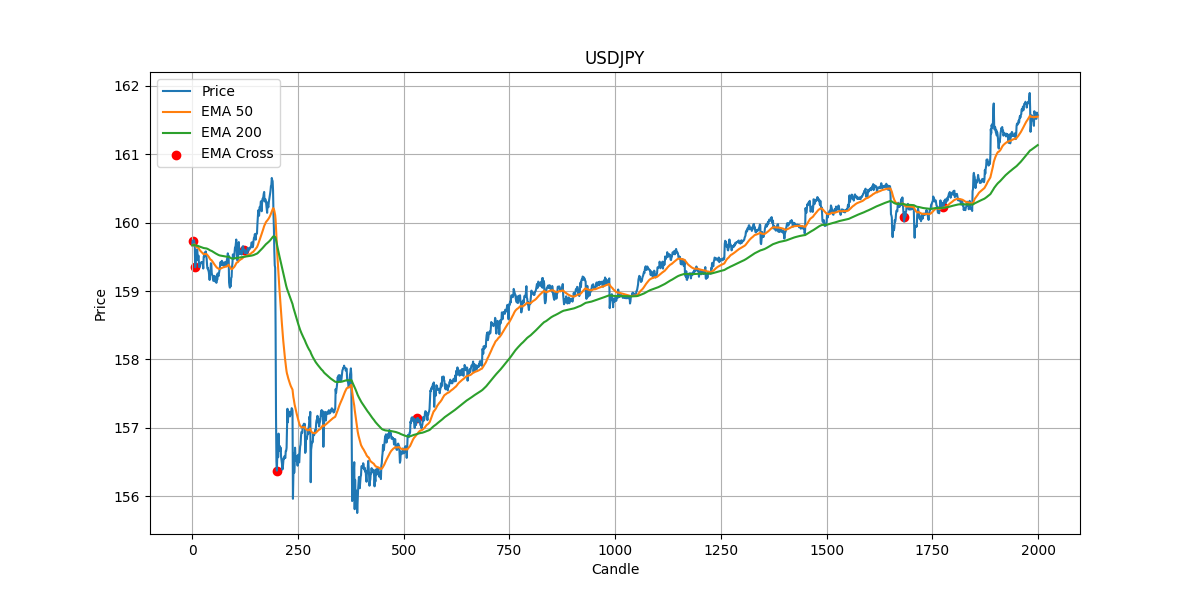
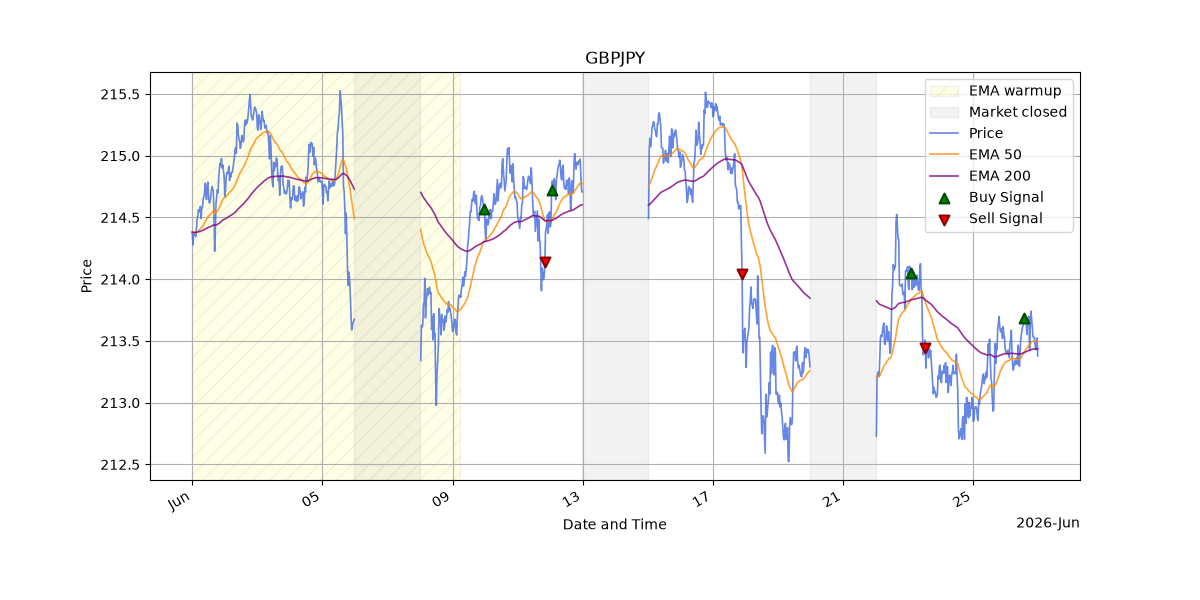
initial backtesting poc available

diff --git a/backtest_lib.py b/backtest_lib.py
@@ -1,0 +1,161 @@
+"""
+Author: Zsigmond Kovacs-Nagy
+Description: ...
+"""
+
+from decimal import Decimal
+
+from nautilus_trader.config import StrategyConfig
+from nautilus_trader.indicators import ExponentialMovingAverage
+from nautilus_trader.model.data import Bar
+from nautilus_trader.model.data import BarType
+from nautilus_trader.model.enums import OrderSide
+from nautilus_trader.model.identifiers import InstrumentId
+from nautilus_trader.trading.strategy import Strategy
+
+
+class EMACrossConfig(StrategyConfig, frozen=True):
+    instrument_id: InstrumentId
+    bar_type: BarType
+    trade_size: Decimal
+    fast_ema_period: int = 50
+    slow_ema_period: int = 200
+
+
+class EMACross(Strategy):
+    def __init__(self, config: EMACrossConfig):
+        super().__init__(config)
+        self.fast_ema = ExponentialMovingAverage(config.fast_ema_period)
+        self.slow_ema = ExponentialMovingAverage(config.slow_ema_period)
+
+    def on_start(self):
+        self.register_indicator_for_bars(self.config.bar_type, self.fast_ema)
+        self.register_indicator_for_bars(self.config.bar_type, self.slow_ema)
+        self.subscribe_bars(self.config.bar_type)
+
+    def on_bar(self, bar: Bar):
+        if not self.indicators_initialized():
+            return
+
+        if self.fast_ema.value >= self.slow_ema.value:
+            if self.portfolio.is_flat(self.config.instrument_id):
+                self.buy()
+            elif self.portfolio.is_net_short(self.config.instrument_id):
+                self.close_all_positions(self.config.instrument_id)
+                self.buy()
+        elif self.fast_ema.value < self.slow_ema.value:
+            if self.portfolio.is_flat(self.config.instrument_id):
+                self.sell()
+            elif self.portfolio.is_net_long(self.config.instrument_id):
+                self.close_all_positions(self.config.instrument_id)
+                self.sell()
+
+    def buy(self):
+        instrument = self.cache.instrument(self.config.instrument_id)
+        order = self.order_factory.market(
+            self.config.instrument_id,
+            OrderSide.BUY,
+            instrument.make_qty(self.config.trade_size),
+        )
+        self.submit_order(order)
+
+    def sell(self):
+        instrument = self.cache.instrument(self.config.instrument_id)
+        order = self.order_factory.market(
+            self.config.instrument_id,
+            OrderSide.SELL,
+            instrument.make_qty(self.config.trade_size),
+        )
+        self.submit_order(order)
+
+    def on_stop(self):
+        self.close_all_positions(self.config.instrument_id)
+
+import numpy as np
+import pandas as pd
+
+from nautilus_trader.backtest.engine import BacktestEngine
+from nautilus_trader.config import BacktestEngineConfig
+from nautilus_trader.config import LoggingConfig
+from nautilus_trader.model.currencies import USD
+from nautilus_trader.model.enums import AccountType
+from nautilus_trader.model.enums import OmsType
+from nautilus_trader.model.identifiers import Venue
+from nautilus_trader.model.objects import Money
+from nautilus_trader.persistence.wranglers import BarDataWrangler
+from nautilus_trader.test_kit.providers import TestInstrumentProvider
+
+# Create a EUR/USD instrument on the SIM venue
+EURUSD = TestInstrumentProvider.default_fx_ccy("EUR/USD")
+
+# Generate synthetic 1-minute bars (random walk around 1.10)
+rng = np.random.default_rng(42)
+n = 100_000
+price = 1.10 + np.cumsum(rng.normal(0, 0.0002, n))
+spread = np.abs(rng.normal(0, 0.0003, n))
+bars_df = pd.DataFrame(
+    {
+        "open": price,
+        "high": price + spread,
+        "low": price - spread,
+        "close": price + rng.normal(0, 0.00005, n),
+    },
+    index=pd.date_range("2024-01-01", periods=n, freq="1min", tz="UTC"),
+)
+bars_df["high"] = bars_df[["open", "high", "close"]].max(axis=1)
+bars_df["low"] = bars_df[["open", "low", "close"]].min(axis=1)
+
+bar_type = BarType.from_str("EUR/USD.SIM-1-MINUTE-LAST-EXTERNAL")
+bars = BarDataWrangler(bar_type, EURUSD).process(bars_df)
+
+engine = BacktestEngine(
+    config=BacktestEngineConfig(
+        logging=LoggingConfig(log_level="ERROR"),
+    ),
+)
+
+# Add a simulated FX venue
+SIM = Venue("SIM")
+engine.add_venue(
+    venue=SIM,
+    oms_type=OmsType.NETTING,
+    account_type=AccountType.MARGIN,
+    starting_balances=[Money(1_000_000, USD)],
+    base_currency=USD,
+    default_leverage=Decimal(1),
+)
+
+# Add instrument, data, and strategy
+engine.add_instrument(EURUSD)
+engine.add_data(bars)
+
+strategy = EMACross(
+    EMACrossConfig(
+        instrument_id=EURUSD.id,
+        bar_type=bar_type,
+        trade_size=Decimal(100000),
+    ),
+)
+engine.add_strategy(strategy)
+
+# Run the backtest
+engine.run()
+
+from nautilus_trader.analysis import create_tearsheet
+
+# Generate interactive visual report
+create_tearsheet(
+    engine=engine,
+    output_path="backtest_tearsheet.html",
+)
+
+# Generate reports
+# account_report = engine.trader.generate_account_report(
+#     venue=SIM
+# )
+# order_fills_report = engine.trader.generate_order_fills_report()
+# positions_report = engine.trader.generate_positions_report()
+
+# account_report.to_csv("account_report.csv")
+# order_fills_report.to_csv("order_fills_report.csv")
+# positions_report.to_csv("positions_report.csv")

diff --git a/README.md b/README.md
@@ -1,22 +1,26 @@
 # Trading Bot
 
-![Fire Simulation Demo](docs/images/ema_diagram.png)
+![Historical EMA Diagram](docs/images/ema_diagram.png)
 
 ## Overview
-A Python-based trading bot implementing an Exponential Moving Average (EMA) crossover strategy on MetaTrader5. It retrieves market data, computes indicators, and identifies potential buy/sell signals across selected currency pairs.
+A Python-based algorithmic trading system implementing an Exponential Moving Average (EMA) crossover strategy with MetaTrader5 integration and NautilusTrader-powered backtesting. The system retrieves market data, processes technical indicators, identifies trading signals, manages risk-based position sizing, and evaluates strategy performance against historical data.
 
 ## Tech Stack
 - Python
 - MetaTrader5
-- pandas
+- NautilusTrader
 
 ## Key Features
-- Connects to MetaTrader5 and retrieves historical price data  
-- Calculates EMA indicators and detects crossover signals  
-- Supports multiple currency pairs and configurable timeframes  
+- Connects to MetaTrader5 and retrieves historical price data
+- Calculates EMA indicators and detects crossover signals
+- Supports multiple currency pairs and configurable timeframes
+- Backtests trading strategies using NautilusTrader's event-driven backtesting engine
+
+## Backtesting Results
+![Fire Simulation Demo](docs/images/backtesting_results.png)
 
 ## How to Run
 1. Install MetaTrader5  
-2. Install dependencies: `pip install -r requirements.txt`  
+2. Install dependencies: `py -m pip install -r requirements.txt`  
 3. Add your MT5 credentials in a `.env` file  
 4. Run: `python main.py`
